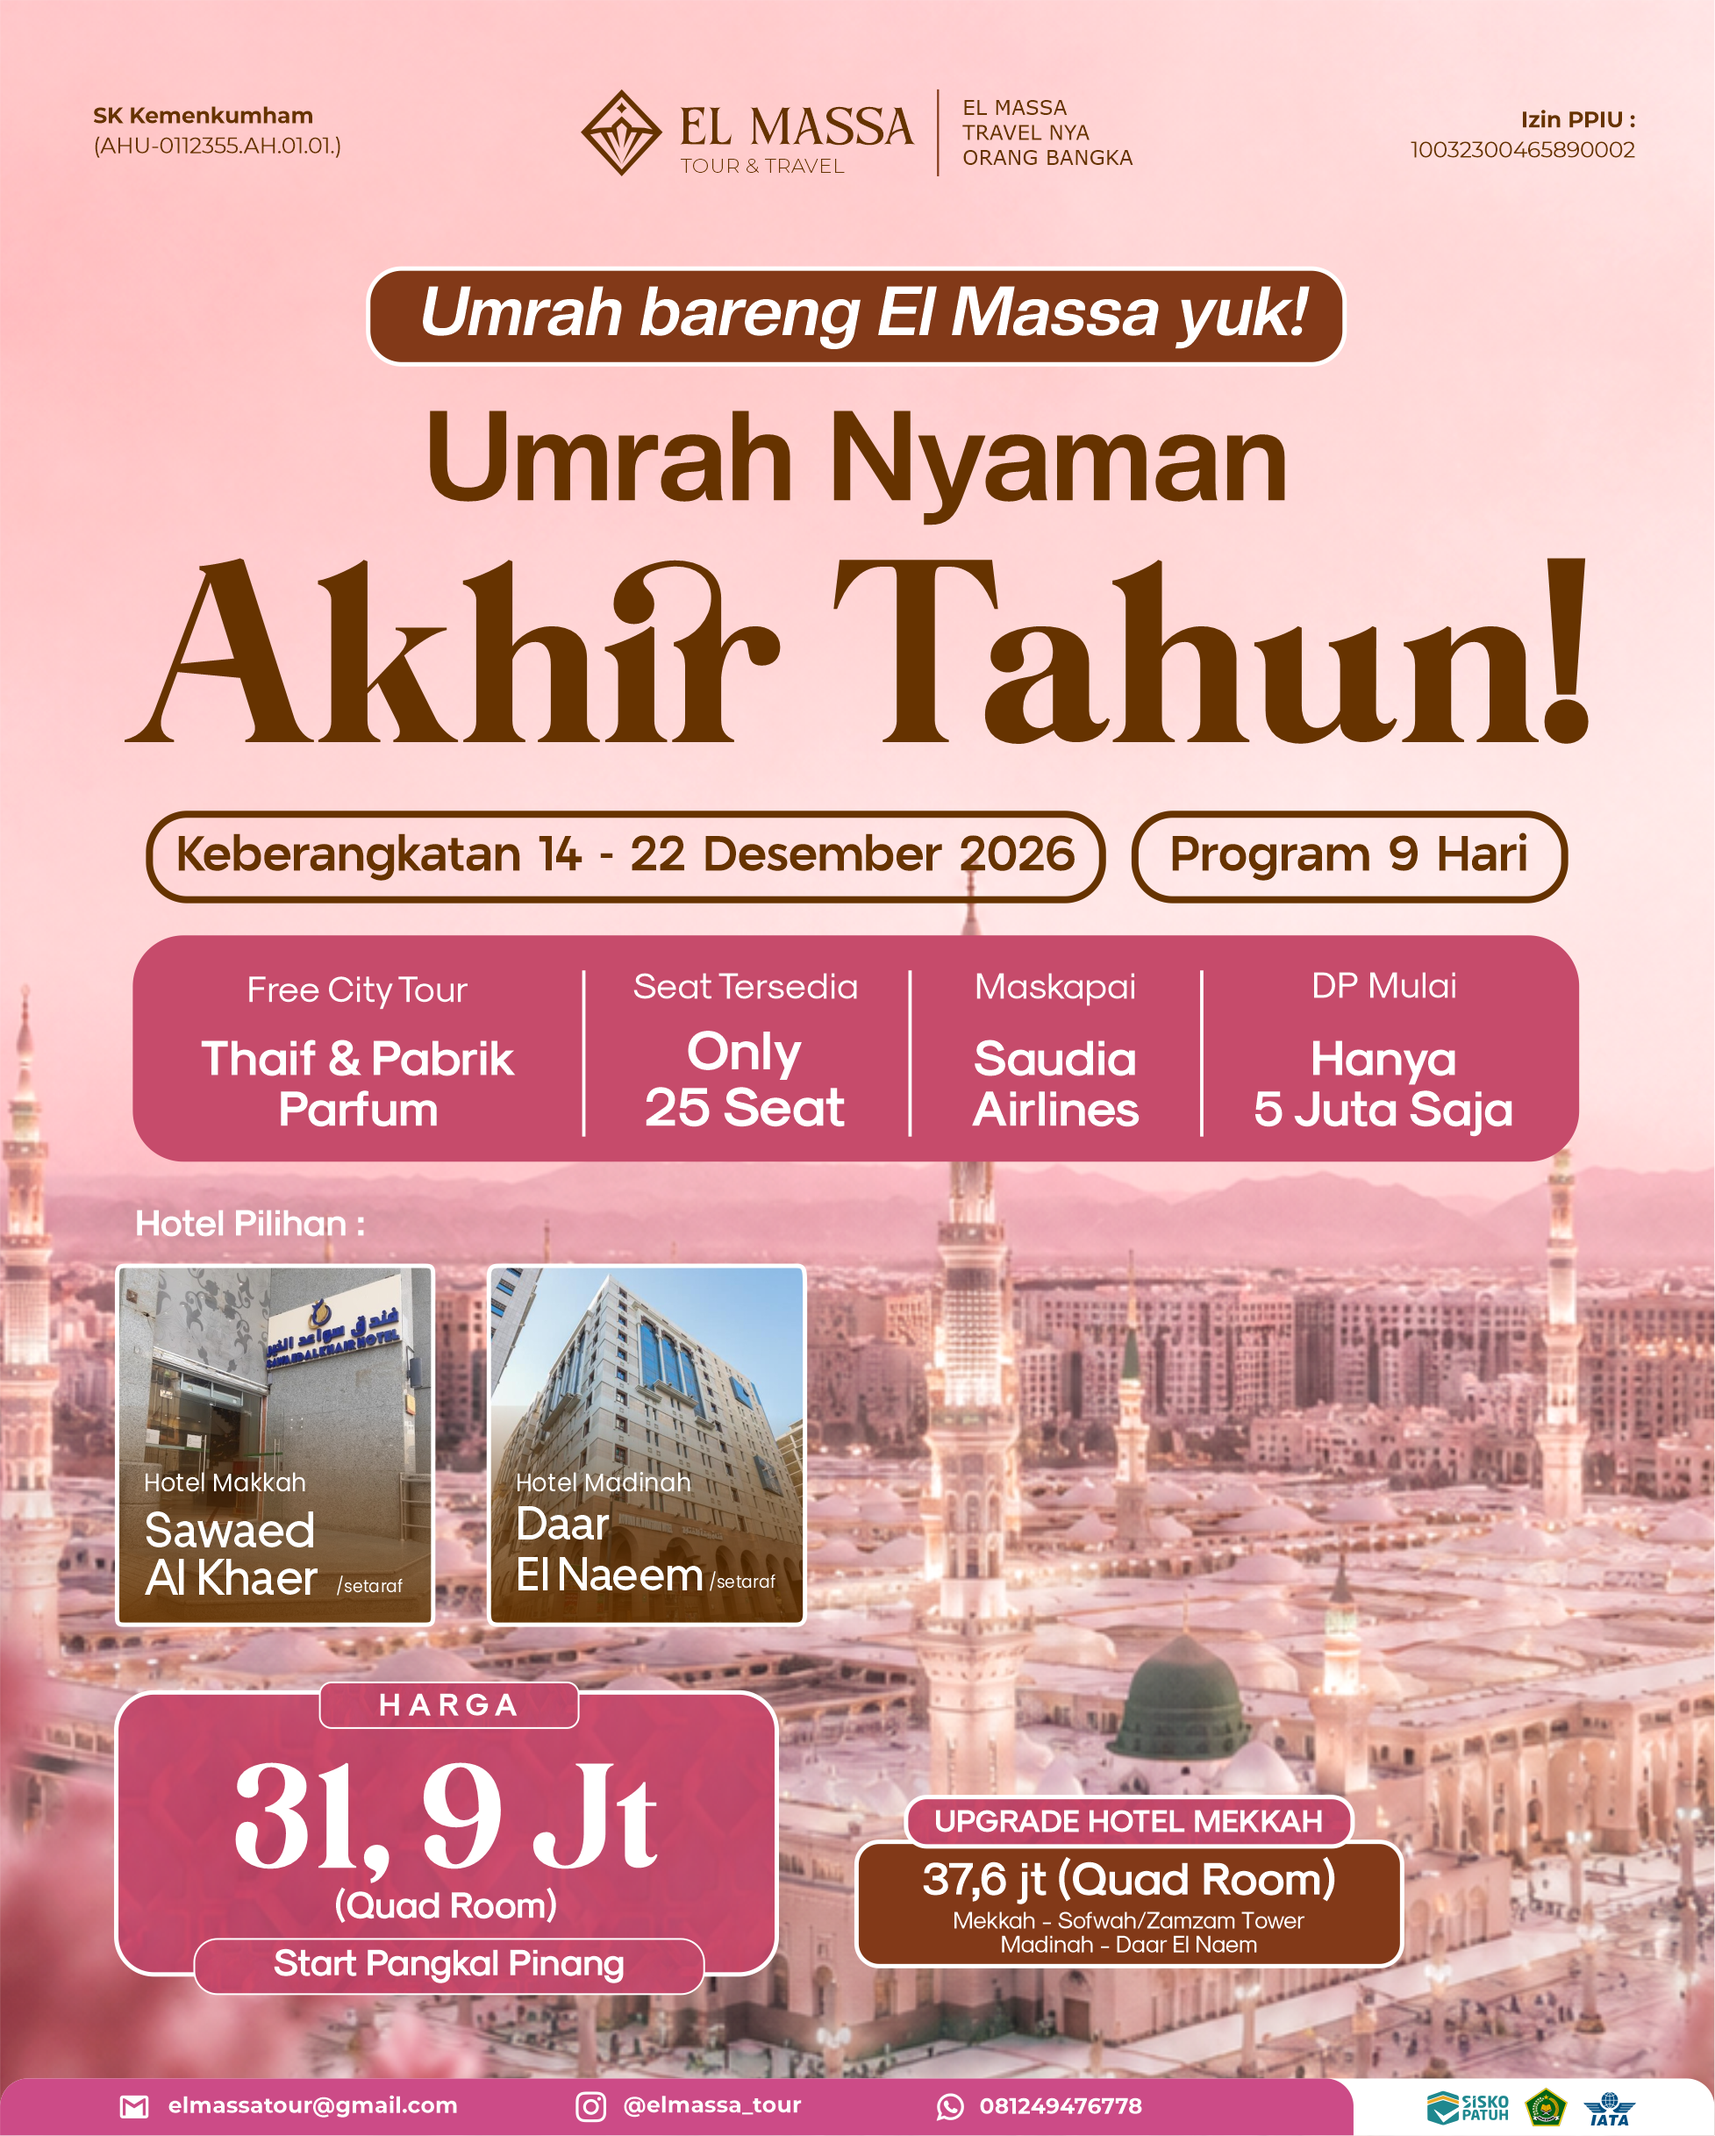
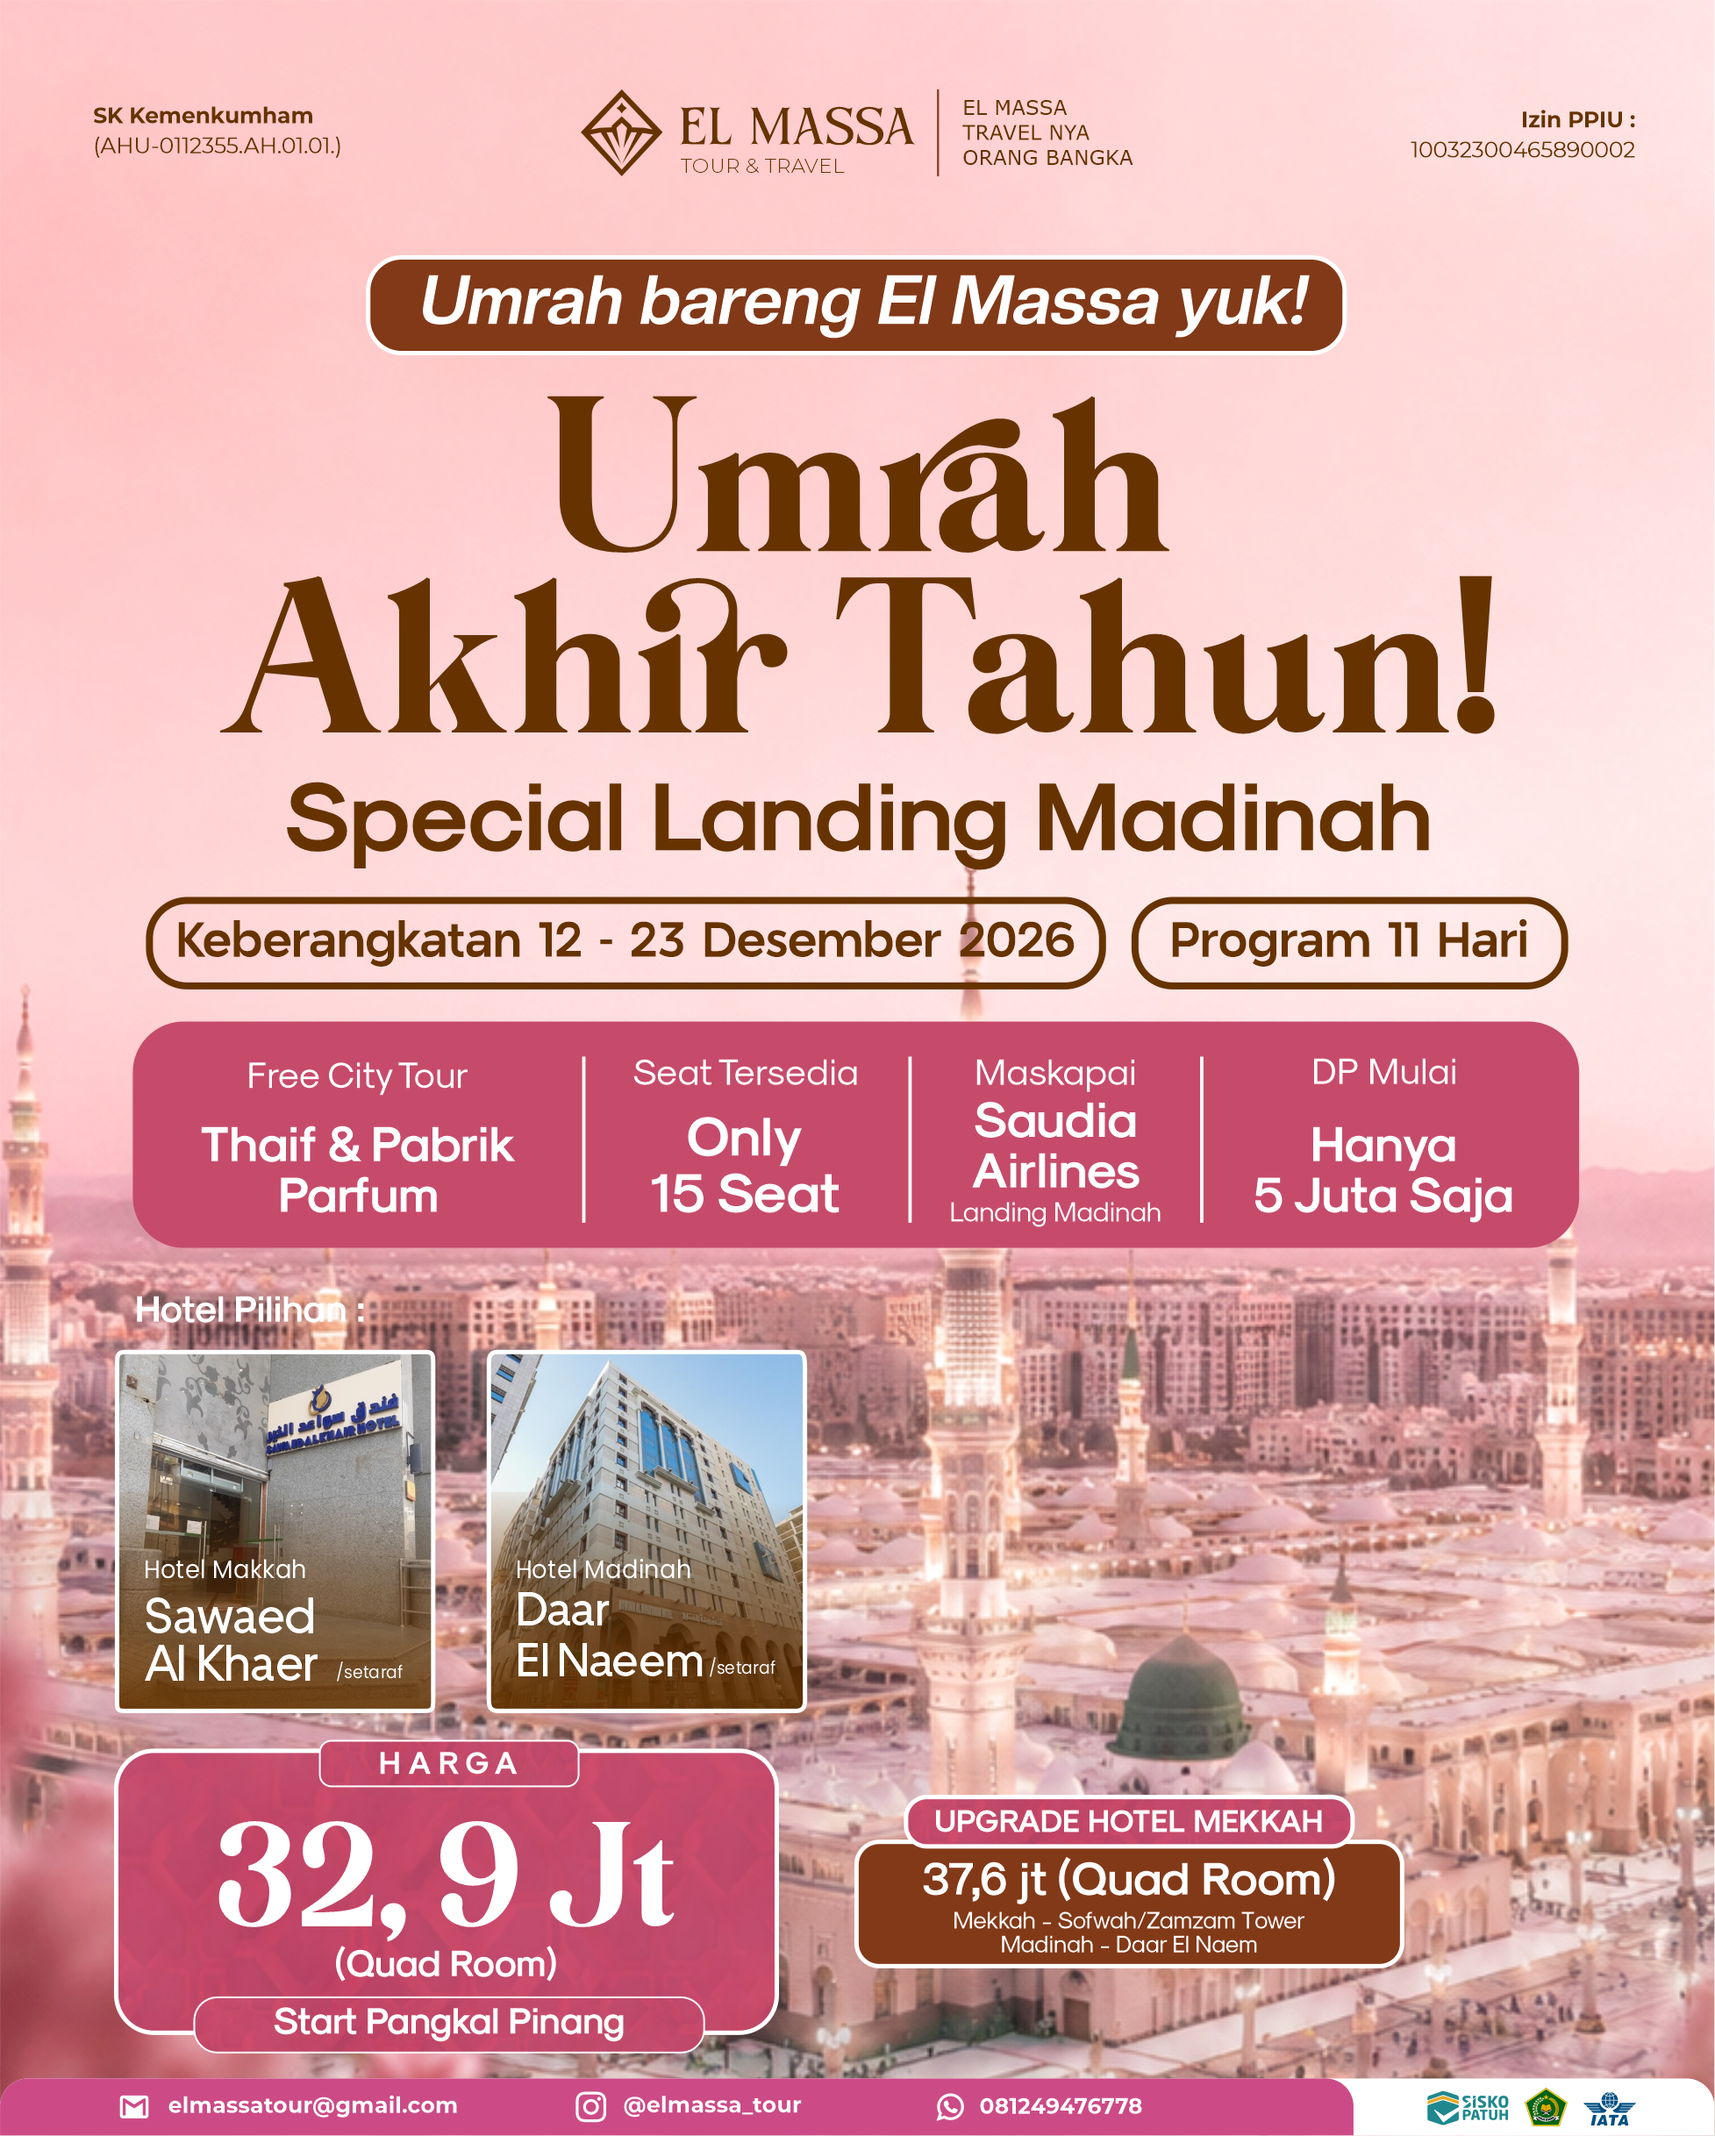
feat(catalog): update December package poster with El Massa Poster Desember 1 (12-23 Dec 2026, 11 Days, Rp 32.9M, Only 15 Seats)

Changed region(s): [[0.0624, 0.0936, 0.9361, 0.9676]]

diff --git a/js/data.js b/js/data.js
@@ -301,100 +301,123 @@ const DEFAULT_ELMASSA_DATA = {
     },
 
     // -------------------------------------------------------------------------
-    // 3. Umrah Nyaman Akhir Tahun (9 Hari)
+    // 3. Umrah Akhir Tahun! Special Landing Madinah (11 Hari)
     // -------------------------------------------------------------------------
     {
       id: 'pkg-03',
-      title: 'Umrah Nyaman Akhir Tahun (9 Hari)',
+      title: 'Umrah Akhir Tahun! Special Landing Madinah (11 Hari)',
       category: 'Umroh Akhir Tahun',
-      tags: ['Akhir Tahun', 'Start Pangkal Pinang', 'Saudia Airlines', 'Free Thaif', '9 Hari', 'Quad Room'],
-      programSummary: 'Menutup tahun 2026 dengan beribadah di Baitullah bersama program Umrah Nyaman Akhir Tahun (14 – 22 Desember 2026) Program 9 Hari. Keberangkatan Start Pangkal Pinang bersama Saudia Airlines. Hotel Sawaed Al Khaer Makkah (Upgrade Sofwah / Zamzam Tower 37,6 Jt) & Daar El Naeem Madinah. Free City Tour Thaif & Pabrik Parfum. Hanya 25 Seat. DP Mulai 5 Juta Saja.',
-      flyerUrl: 'images/poster-desember-akhir-tahun-reguler.png',
-      thumbnailUrl: 'images/poster-desember-akhir-tahun-reguler.png',
+      tags: ['Akhir Tahun', 'Special Landing Madinah', 'Start Pangkal Pinang', 'Saudia Airlines', 'Free Thaif', '11 Hari', 'Quad Room'],
+      programSummary: 'Menutup tahun 2026 dengan beribadah di Baitullah bersama program Umrah Akhir Tahun Special Landing Madinah (12 – 23 Desember 2026) Program 11 Hari. Keberangkatan Start Pangkal Pinang bersama Saudia Airlines (Landing Madinah). Hotel Sawaed Al Khaer Makkah (Upgrade Sofwah / Zamzam Tower 37,6 Jt) & Daar El Naeem Madinah. Free City Tour Thaif & Pabrik Parfum. Kuota Only 15 Seat. DP Mulai 5 Juta Saja.',
+      flyerUrl: 'images/poster-desember-1.png',
+      thumbnailUrl: 'images/poster-desember-1.png',
       activeStatus: 'Aktif',
       createdAt: '2026-08-03T08:00:00.000Z',
       hotelMakkah: 'Sawaed Al Khaer / Setaraf (Opsi Upgrade: Sofwah / Zamzam Tower ★5)',
       hotelMadinah: 'Daar El Naeem / Setaraf',
-      hotelExtra: 'Free City Tour Thaif & Pabrik Parfum Mawar',
+      hotelExtra: 'Free City Tour Thaif & Pabrik Parfum Mawar, Special Landing Madinah',
       itinerary: [
         {
           day: 1,
-          title: 'Hari 1 (14 Des 2026): Pangkal Pinang ➔ Jakarta ➔ Madinah (Saudia SV821)',
-          route: 'Pangkal Pinang ➔ Jakarta ➔ Madinah',
+          title: 'Hari 1 (12 Des 2026): Pangkal Pinang ➔ Jakarta & Transit Dprima Hotel',
+          route: 'Pangkal Pinang ➔ Jakarta',
           activities: [
             'Pukul 09.00 WIB: Jemaah berkumpul di Bandar Udara Internasional Depati Amir Pangkal Pinang untuk persiapan take-off ke Jakarta.',
-            'Pukul 12.25 WIB: Jemaah take-off ke Jakarta dan dilanjutkan penerbangan Saudia Airlines menuju Madinah.',
-            'Tiba di Bandara Madinah, check-in Hotel Daar El Naeem dan beristirahat.'
+            'Pukul 12.25 WIB: Jemaah take-off ke Jakarta (tiba pukul 13.54 WIB). Dilanjutkan menuju hotel transit di Jakarta (Dprima Hotel).',
+            'Pukul 19.30 WIB – Selesai: Pemantapan manasik umrah di mushalla/meeting room hotel transit bersama tim El Massa.'
           ]
         },
         {
           day: 2,
-          title: 'Hari 2 (15 Des 2026): Ziarah Raudhah Syarifah & Masjid Nabawi',
-          route: 'Madinah Al-Munawwarah',
+          title: 'Hari 2 (13 Des 2026): Jakarta ➔ Madinah Direct (Saudia Airlines Landing Madinah)',
+          route: 'Jakarta ➔ Madinah (Saudia Direct)',
           activities: [
-            'Jadwal memasuki Raudhah Syarifah (Insya Allah apabila Tasreh keluar sesuai jadwal resmi).',
-            'Ziarah Saqifah Bani Sa\'idah, Makam Rasulullah ﷺ dan Makam Sahabat, Masjid Ali, Masjid Ghamamah, dan Baqi\'.'
+            'Pukul 05.30 WIB: Sarapan dan berkumpul di lobby hotel untuk persiapan menuju Bandara Soekarno-Hatta Terminal 3.',
+            'Pukul 12.00 WIB: Penerbangan direct menuju Madinah menggunakan pesawat Saudia Airlines (Landing Madinah).',
+            'Pukul 18.00 LT: Tiba di Bandara Internasional Prince Mohammad bin Abdulaziz Madinah, dilanjutkan bus eksekutif menuju hotel Daar El Naeem.'
           ]
         },
         {
           day: 3,
-          title: 'Hari 3 (16 Des 2026): Ziarah Jejak Sejarah Islam Kota Madinah',
+          title: 'Hari 3 (14 Des 2026): Ziarah Raudhah Syarifah & Masjid Nabawi',
           route: 'Madinah Al-Munawwarah',
           activities: [
-            'Ziarah Masjid Quba, Jabal Uhud & Makam Syuhada Uhud, dan Perkebunan Kurma Madinah.',
-            'Melewati Masjid Qiblatain dan Masjid Khandaq.'
+            'Jadwal memasuki Raudhah Syarifah dengan tasreh resmi (mengikuti jadwal resmi Nusuk).',
+            'Ziarah Saqifah Bani Sa\'idah, Makam Rasulullah ﷺ dan Makam Sahabat, Masjid Ali, Masjid Ghamamah, dan Pemakaman Baqi\'.'
           ]
         },
         {
           day: 4,
-          title: 'Hari 4 (17 Des 2026): Madinah ➔ Miqat Bir Ali ➔ Makkah & Pelaksanaan Umrah 1',
-          route: 'Madinah ➔ Bir Ali ➔ Makkah',
+          title: 'Hari 4 (15 Des 2026): Ziarah Jejak Sejarah Islam Kota Madinah',
+          route: 'Madinah Al-Munawwarah',
           activities: [
-            'Mengambil Miqat di Masjid Bir Ali (Dzulhulaifah), perjalanan ke Makkah dengan bus eksekutif.',
-            'Check-in Hotel Sawaed Al Khaer Makkah dan pelaksanaan Umrah Pertama.'
+            'Ziarah Masjid Quba (sholat 2 rakaat pahala umrah), Jabal Uhud & Makam Syuhada Uhud, dan Perkebunan Kurma Madinah.',
+            'Melewati rute bersejarah Masjid Qiblatain dan Masjid Khandaq.'
           ]
         },
         {
           day: 5,
-          title: 'Hari 5 (18 Des 2026): Ibadah Khusyuk & Sholat Jumat di Masjidil Haram',
-          route: 'Makkah Al-Mukarramah',
+          title: 'Hari 5 (16 Des 2026): Ibadah Khusyuk di Masjid Nabawi & Pemantapan Manasik',
+          route: 'Madinah Al-Munawwarah',
           activities: [
-            'Memperbanyak ibadah di Masjidil Haram (Thawaf Sunnah, tilawah Qur\'an).',
-            'Sholat Jumat berjamaah di Masjidil Haram.'
+            'Memperbanyak amal ibadah, shalawat, dan sholat fardhu berjamaah di Masjid Nabawi.',
+            'Pemantapan manasik rukun umrah bersama Muthawwif sebelum bertolak ke Makkah Al-Mukarramah.'
           ]
         },
         {
           day: 6,
-          title: 'Hari 6 (19 Des 2026): Ziarah Jejak Sejarah Makkah & Miqat Umrah 2 (Ji\'ranah)',
-          route: 'Ziarah Makkah ➔ Ji\'ranah',
+          title: 'Hari 6 (17 Des 2026): Madinah ➔ Miqat Bir Ali ➔ Makkah & Pelaksanaan Umrah 1',
+          route: 'Madinah ➔ Bir Ali ➔ Makkah',
           activities: [
-            'Ziarah Jabal Tsur, Padang Arafah, Jabal Rahmah, Muzdalifah, dan Mina.',
-            'Mengambil Miqat di Masjid Ji\'ranah untuk Umrah Kedua.'
+            'Check-out hotel Madinah dan berangkat menuju Masjid Bir Ali (Dzulhulaifah) untuk mengambil Miqat dan berniat Umrah.',
+            'Perjalanan bus eksekutif menuju Makkah, check-in Hotel Sawaed Al Khaer (atau Sofwah/Zamzam Tower).',
+            'Pelaksanaan Ibadah Umrah Pertama (Thawaf, Sa\'i, dan Tahallul) dibimbing langsung oleh Muthawwif.'
           ]
         },
         {
           day: 7,
-          title: 'Hari 7 (20 Des 2026): Free Bonus City Tour Thaif & Pabrik Parfum',
-          route: 'Makkah ➔ Thaif ➔ Makkah',
+          title: 'Hari 7 (18 Des 2026): Ibadah Khusyuk & Sholat Jumat di Masjidil Haram',
+          route: 'Makkah Al-Mukarramah',
           activities: [
-            'Bonus City Tour Thaif: Masjid Ibnu Abbas, Pabrik Minyak Wangi Mawar, Teleferik, dan santap Nasi Mandhi.',
-            'Miqat di Qarnul Manazil bagi yang ingin Umrah Ketiga.'
+            'Memperbanyak ibadah di Masjidil Haram (Thawaf Sunnah, tilawah Qur\'an, i\'tikaf).',
+            'Siang harinya melaksanakan ibadah Sholat Jumat berjamaah di Masjidil Haram.'
           ]
         },
         {
           day: 8,
-          title: 'Hari 8 (21 Des 2026): Thawaf Wada\' & Transfer ke Bandara Jeddah',
-          route: 'Makkah ➔ Jeddah',
+          title: 'Hari 8 (19 Des 2026): Ziarah Jejak Sejarah Makkah & Miqat Umrah 2 (Ji\'ranah)',
+          route: 'Ziarah Makkah ➔ Ji\'ranah',
           activities: [
-            'Pelaksanaan Thawaf Wada\' di Masjidil Haram dan transfer menuju Bandara Internasional Jeddah.'
+            'Ziarah Jabal Tsur, Padang Arafah, Jabal Rahmah, Muzdalifah, dan Mina.',
+            'Mengambil Miqat di Masjid Ji\'ranah bagi jamaah yang ingin melaksanakan Umrah Kedua (sunnah).'
           ]
         },
         {
           day: 9,
-          title: 'Hari 9 (22 Des 2026): Tiba Kembali di Pangkal Pinang',
-          route: 'Jeddah ➔ Jakarta ➔ Pangkal Pinang',
+          title: 'Hari 9 (20 Des 2026): Free Bonus City Tour Thaif & Pabrik Parfum',
+          route: 'Makkah ➔ Thaif ➔ Makkah',
           activities: [
-            'Penerbangan kembali ke Jakarta dan transit menuju Pangkal Pinang dengan predikat Umrah Mabrur.'
+            'Bonus City Tour Thaif: Masjid Ibnu Abbas, Pabrik Penyulingan Minyak Wangi Mawar Thaif, Teleferik, dan santap Nasi Mandhi khas Thaif.',
+            'Mengambil Miqat di Qarnul Manazil bagi jemaah yang ingin Umrah Ketiga.'
+          ]
+        },
+        {
+          day: 10,
+          title: 'Hari 10 (21-22 Des 2026): Thawaf Wada\', Transfer Bandara Jeddah ➔ Jakarta',
+          route: 'Makkah ➔ Jeddah ➔ Jakarta',
+          activities: [
+            'Pelaksanaan Thawaf Wada\' (Thawaf Perpisahan) di Masjidil Haram.',
+            'Check-out hotel dan transfer menuju Bandara Internasional King Abdulaziz Jeddah.',
+            'Penerbangan Saudia Airlines menuju Bandara Soekarno-Hatta Jakarta, check-in hotel transit Dprima Jakarta.'
+          ]
+        },
+        {
+          day: 11,
+          title: 'Hari 11 (23 Des 2026): Penerbangan Jakarta ➔ Pangkal Pinang',
+          route: 'Jakarta ➔ Pangkal Pinang',
+          activities: [
+            'Penerbangan domestik kembali ke Bandara Depati Amir Pangkal Pinang.',
+            'Pembagian air zamzam 5 liter dan bingkisan kenang-kenangan eksklusif dari El Massa. Semoga meraih umrah mabrur.'
           ]
         }
       ],
@@ -403,14 +426,14 @@ const DEFAULT_ELMASSA_DATA = {
           id: 'sch-03',
           startCity: 'Pangkal Pinang',
           airline: 'Saudia Airlines',
-          departureDate: '2026-12-14',
-          returnDate: '2026-12-22',
-          duration: 9,
-          price: 31900000,
+          departureDate: '2026-12-12',
+          returnDate: '2026-12-23',
+          duration: 11,
+          price: 32900000,
           dp: 5000000,
-          availableSeats: 25,
+          availableSeats: 15,
           roomType: 'Quad Room (Sawaed Al Khaer / Upgrade Sofwah 37,6 Jt)',
-          flightType: 'Connecting PGK ➔ Saudia SV821 Landing Madinah'
+          flightType: 'Connecting PGK ➔ Saudia Direct Landing Madinah'
         }
       ]
     },

diff --git a/js/app.js b/js/app.js
@@ -198,7 +198,7 @@ function elMassaApp() {
     // LocalStorage & Data Layer
     loadStorageData() {
       try {
-        const stored = localStorage.getItem('EL_MASSA_APP_DATA_V35');
+        const stored = localStorage.getItem('EL_MASSA_APP_DATA_V36');
         if (stored) {
           const parsed = JSON.parse(stored);
           this.settings = parsed.settings || DEFAULT_ELMASSA_DATA.settings;
@@ -231,7 +231,7 @@ function elMassaApp() {
         defaultInclude: this.defaultInclude,
         defaultExclude: this.defaultExclude
       };
-      localStorage.setItem('EL_MASSA_APP_DATA_V35', JSON.stringify(dataToSave));
+      localStorage.setItem('EL_MASSA_APP_DATA_V36', JSON.stringify(dataToSave));
       this.rebuildScheduleFlatList();
     },
 
